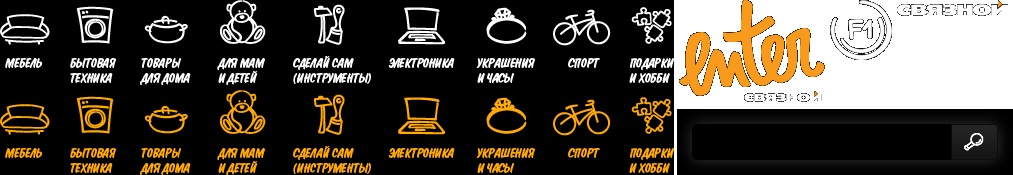
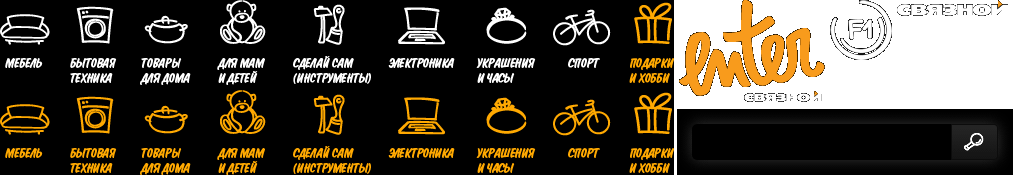
Замена картинок верхнего меню и банера на главной странице для 14.02

Changed region(s): [[0.612, 0.5143, 0.6732, 0.7714], [0.612, 0.0, 0.6732, 0.2571], [0.612, 0.3143, 0.6732, 0.4857]]

diff --git a/apps/main/modules/default/templates/_footer_main.php b/apps/main/modules/default/templates/_footer_main.php
@@ -5,7 +5,10 @@
 			<div class="vcard"><span class="tel">8 (800) 700 00 09</span></div>
 			<div class="address">Звонок бесплатный. Радость в подарок :)</div>
 		</div>
+    <?php if(false): ?>
     <div class='bIndexLinks2__eBan'><a href="<?php echo url_for('default_show', array('page' => 'mobile_apps',)) ?>"><img src='/images/img_main_mobile_apps.jpg'></a></div>
+    <?php endif ?>
+    <div class='bIndexLinks2__eBan'><a href="<?php echo url_for('productCatalog_category', array('productCategory' => 'gifthobby/podarki-na-14-fevralya-1499',)) ?>"><img src='/images/icon_14feb.gif'></a></div>
     <div class='bIndexLinks2__eBan'><a href="<?php echo url_for('default_show', array('page' => 'f1',)) ?>"><img src='/images/img_main_f1service.jpg'></a></div>
 	<div class='bIndexLinks2__eLinks'>
 		<a href="<?php echo url_for('default_show', array('page' => 'about_company',)) ?>">О компании</a>
